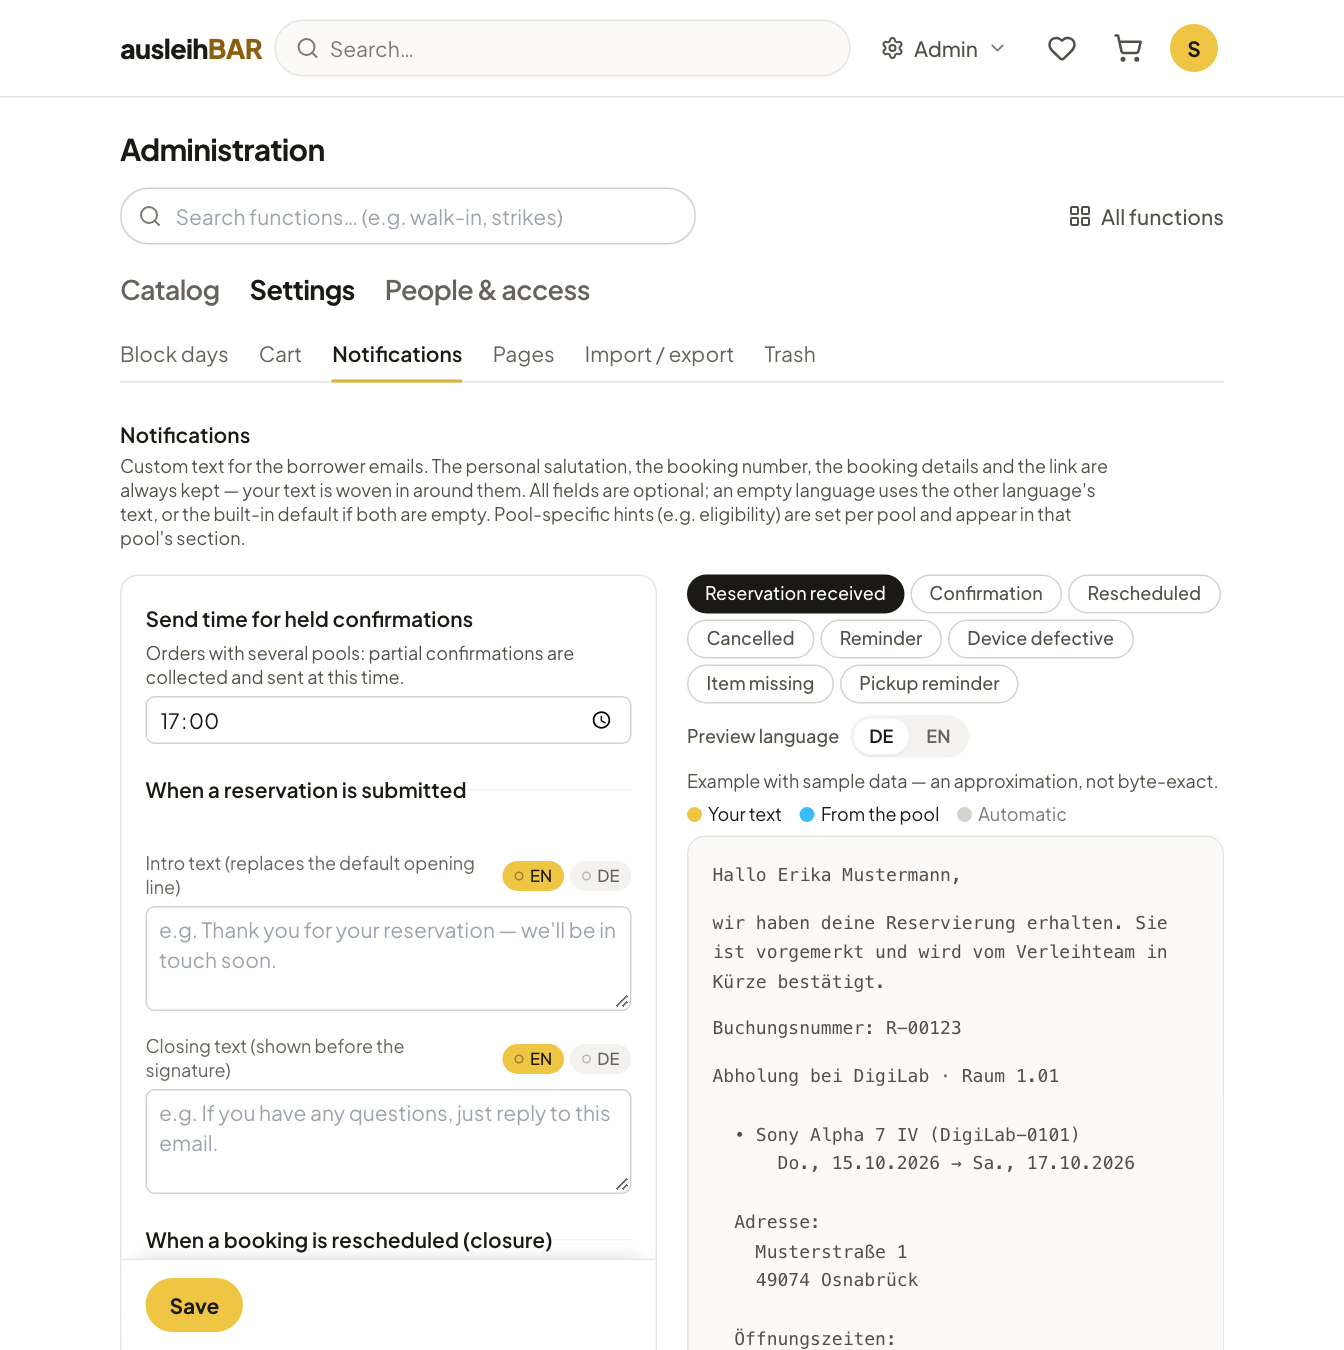
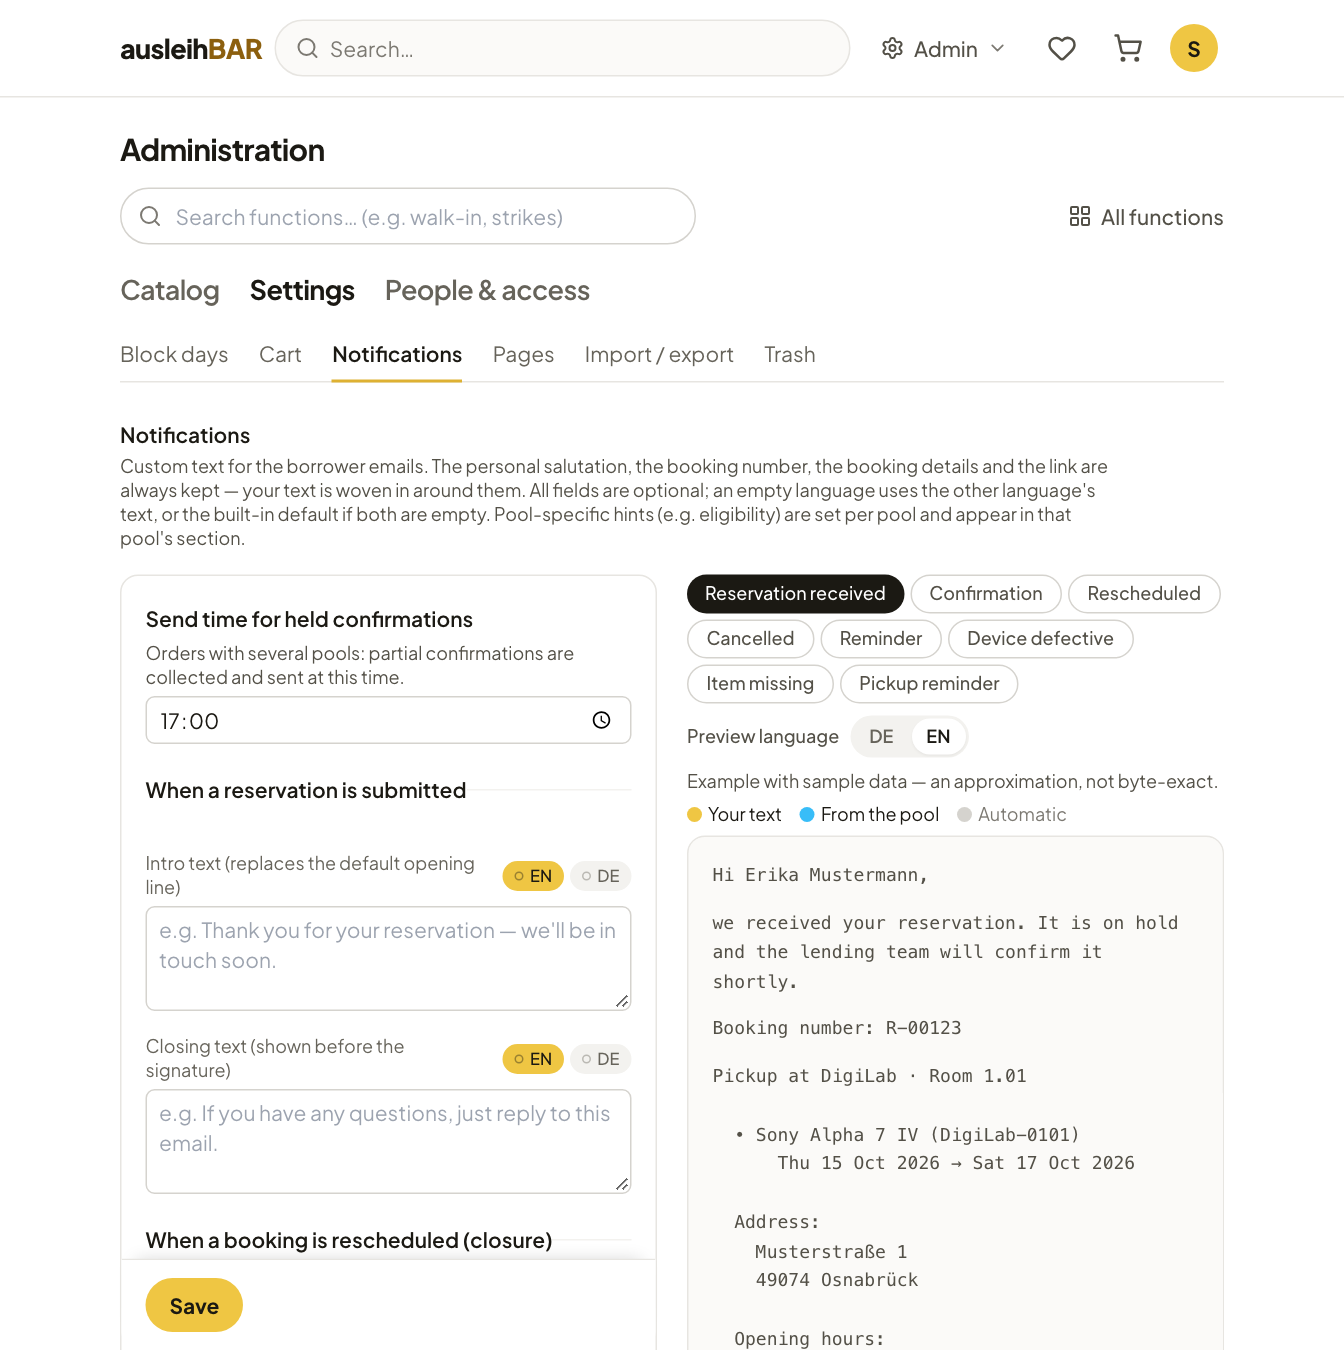
docs(website): English shots — browser locale, greeting, seed pins tested
- playwright.config: docs-shots locale and Chromium --lang follow
  DOCS_SHOTS_LANG, so native date inputs render en-GB in English shots.
- Spec: start-page greeting matched without the greeting word; English
  notifications shot switches the mail preview to EN.
- seed_docs_demo: indentation fix; docstring documents the pinned shop
  rows and cleared logo; test for both.
- Re-taken English theke-direktausleihe and admin-benachrichtigungen.

diff --git a/frontend/e2e/docs-screenshots.spec.ts b/frontend/e2e/docs-screenshots.spec.ts
@@ -271,6 +271,10 @@ const longDate = (d: Date) =>
     ? d.toLocaleDateString("en-GB", { day: "numeric", month: "long", year: "numeric" })
     : `${d.getDate()}. ${d.toLocaleDateString("de-DE", { month: "long" })} ${d.getFullYear()}`;
 
+/** The start page headline "<greeting>, <first name>!" — matched without the
+ *  greeting word itself, which may differ between the languages. */
+const greeting = (name: string) => new RegExp(`^\\S+, ${name}!$`);
+
 /** Click a calendar day (switching months forward if needed). */
 async function pickDay(scope: Locator, d: Date) {
   const day = scope.locator(`button[aria-label*="${longDate(d)}"]`);
@@ -322,7 +326,7 @@ test("website screenshots", async ({ browser }) => {
     const alex = await open("alex");
 
     await take("start", alex, async () => {
-      await go(alex, "/", "Moin, Alex!");
+      await go(alex, "/", greeting("Alex"));
       await alex.getByText(L("Gerade beliebt", "Popular right now")).waitFor();
       await shot(alex, "start");
     });
@@ -387,7 +391,7 @@ test("website screenshots", async ({ browser }) => {
     // ------------------------------------------------ phone (Alex)
     const phone = await open("alex", true);
     await take("handy-start", phone, async () => {
-      await go(phone, "/", "Moin, Alex!");
+      await go(phone, "/", greeting("Alex"));
       await shot(phone, "handy-start");
     });
     await take("handy-produkt", phone, async () => {
@@ -398,7 +402,7 @@ test("website screenshots", async ({ browser }) => {
     // ------------------------------------------------ blocked borrower (Robin)
     const robin = await open("robin");
     await take("gesperrt", robin, async () => {
-      await go(robin, "/", "Moin, Robin!");
+      await go(robin, "/", greeting("Robin"));
       await robin.getByText(L(/gesperrt/, /blocked/)).first().waitFor();
       await shot(robin, "gesperrt", { height: 560 });
     });
@@ -566,6 +570,11 @@ test("website screenshots", async ({ browser }) => {
 
     await take("admin-benachrichtigungen", sam, async () => {
       await go(sam, "/admin/notifications", L("Benachrichtigungen", "Notifications"));
+      if (LANG === "en") {
+        // The mail preview defaults to the content language (German).
+        await sam.getByRole("group", { name: "Preview language" }).getByRole("button", { name: "EN" }).click();
+        await sam.waitForTimeout(500);
+      }
       await shot(sam, "admin-benachrichtigungen");
     });
 

diff --git a/frontend/playwright.config.ts b/frontend/playwright.config.ts
@@ -8,6 +8,8 @@ import { defineConfig, devices } from "@playwright/test";
 // plain `npx playwright test` never picks the file up. It runs against the
 // isolated docs stack (frontend :5183, API :8011), never the dev stack.
 const DOCS_SHOTS = /docs-screenshots\.spec\.ts$/;
+// DOCS_SHOTS_LANG=en: English UI (the spec validates the value).
+const DOCS_LOCALE = process.env.DOCS_SHOTS_LANG === "en" ? "en-GB" : "de-DE";
 
 export default defineConfig({
   testDir: "./e2e",
@@ -22,10 +24,10 @@ export default defineConfig({
           testMatch: DOCS_SHOTS,
           use: {
             ...devices["Desktop Chrome"],
-            locale: "de-DE",
+            locale: DOCS_LOCALE,
             colorScheme: "light" as const,
             // Native date inputs follow the browser UI language, not `locale`.
-            launchOptions: { args: ["--lang=de-DE"] },
+            launchOptions: { args: [`--lang=${DOCS_LOCALE}`] },
           },
         },
       ]

diff --git a/backend/catalog/management/commands/seed_docs_demo.py b/backend/catalog/management/commands/seed_docs_demo.py
@@ -15,6 +15,9 @@ Refuses to run unless the database name ends with ``_docs``
 Idempotent: the catalog structure and users are upserted by natural key; the
 activity data (bookings, strikes, blocks, favourites, defects) is rebuilt on
 every run, so dates always follow today. ``--reset`` wipes the app data first.
+Every run also pins the display settings the shots rely on: both start-page
+rows on (``ShopSetting``) and no institution logo (``WelcomeSetting.logo``
+cleared) — hand-made changes in a kept docs stack are overwritten.
 
 The last stdout line is a JSON summary the screenshot script navigates by:
 ``{"users": {...}, "pools": {...}, "categories": {...}, "products": {...},
@@ -633,9 +636,9 @@ class Command(BaseCommand):
                     "status": Resource.Status.AVAILABLE, "defect_note": "",
                     "serial_number": f"SN-{pool_id}{index:02d}{unit:03d}",
                     "storage_location": self._l(
-                    f"Schrank {chr(64 + 1 + index % 4)}, Fach {unit}",
-                    f"Cabinet {chr(64 + 1 + index % 4)}, shelf {unit}",
-                ),
+                        f"Schrank {chr(64 + 1 + index % 4)}, Fach {unit}",
+                        f"Cabinet {chr(64 + 1 + index % 4)}, shelf {unit}",
+                    ),
                     "procurement_date": date(self.today.year - 2, 1 + index % 12, 1 + unit),
                     "attributes": clean_attribute_values(device_schema, device_values),
                 }

diff --git a/backend/catalog/tests.py b/backend/catalog/tests.py
@@ -11117,6 +11117,20 @@ class DocsDemoSeedTests(TestCase):
         self.assertTrue(roles.is_app_admin(sam))
         self.assertFalse(roles.is_app_admin(kim))
 
+    def test_seed_pins_the_shop_rows_and_clears_the_logo(self):
+        from catalog.models import ShopSetting, WelcomeSetting
+
+        ShopSetting.objects.update_or_create(
+            pk=1, defaults={"show_popular": False, "show_new_arrivals": False}
+        )
+        welcome = WelcomeSetting.load()
+        WelcomeSetting.objects.filter(pk=welcome.pk).update(logo="branding/real-logo.svg")
+        self._seed()
+        shop = ShopSetting.load()
+        self.assertTrue(shop.show_popular)
+        self.assertTrue(shop.show_new_arrivals)
+        self.assertFalse(WelcomeSetting.load().logo)
+
     def test_language_option_sets_users_language_and_free_texts(self):
         from accounts.models import AccessGroup
         from lending.models import Block, Booking
